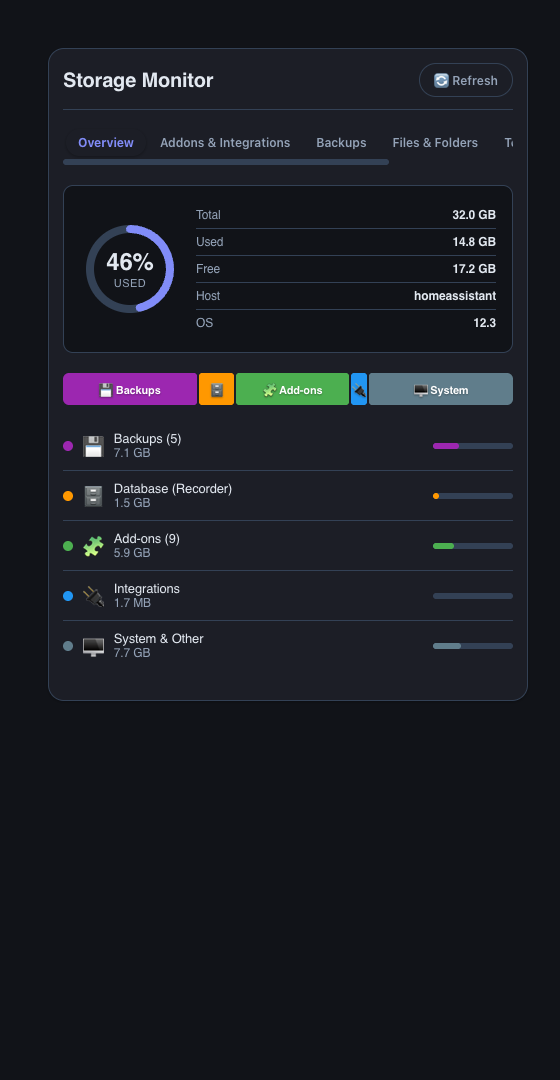
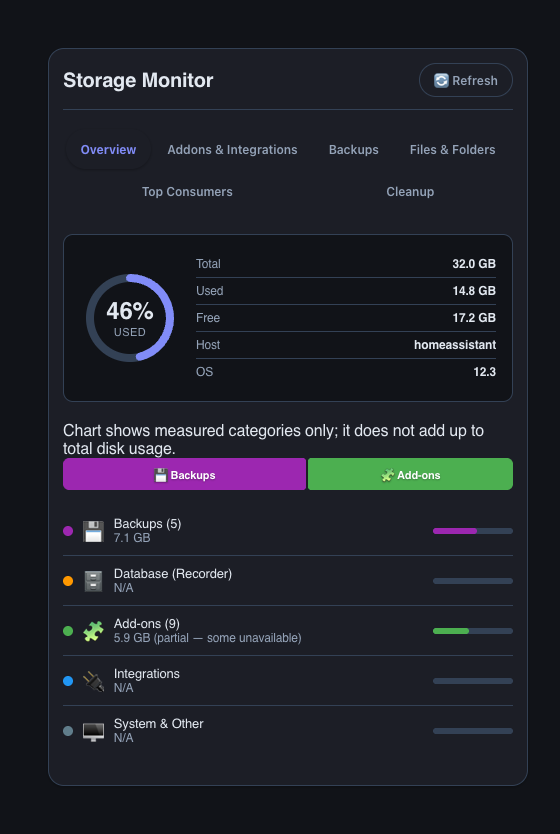
Refresh current tool screenshots and descriptions

diff --git a/README.md b/README.md
@@ -46,8 +46,9 @@ Supervisor.** The card needs no configuration:
 |---|---|
 | ![Overview, light theme](docs/screenshots/card-main-light.png) | ![Overview, dark theme](docs/screenshots/card-main-dark.png) |
 
-*The Overview tab: disk gauge, category treemap and per-category breakdown.
-Dark mode follows your Home Assistant theme automatically. Five more tabs —
+*The Overview tab with synthetic disk metrics: gauge and measured category
+breakdown. Unknown categories remain N/A instead of being treated as zero.
+Dark mode follows your Home Assistant theme. Five more tabs —
 Add-ons & Integrations, Backups, Files & Folders, Top Consumers and Cleanup —
 are available from the tab bar.*
 
